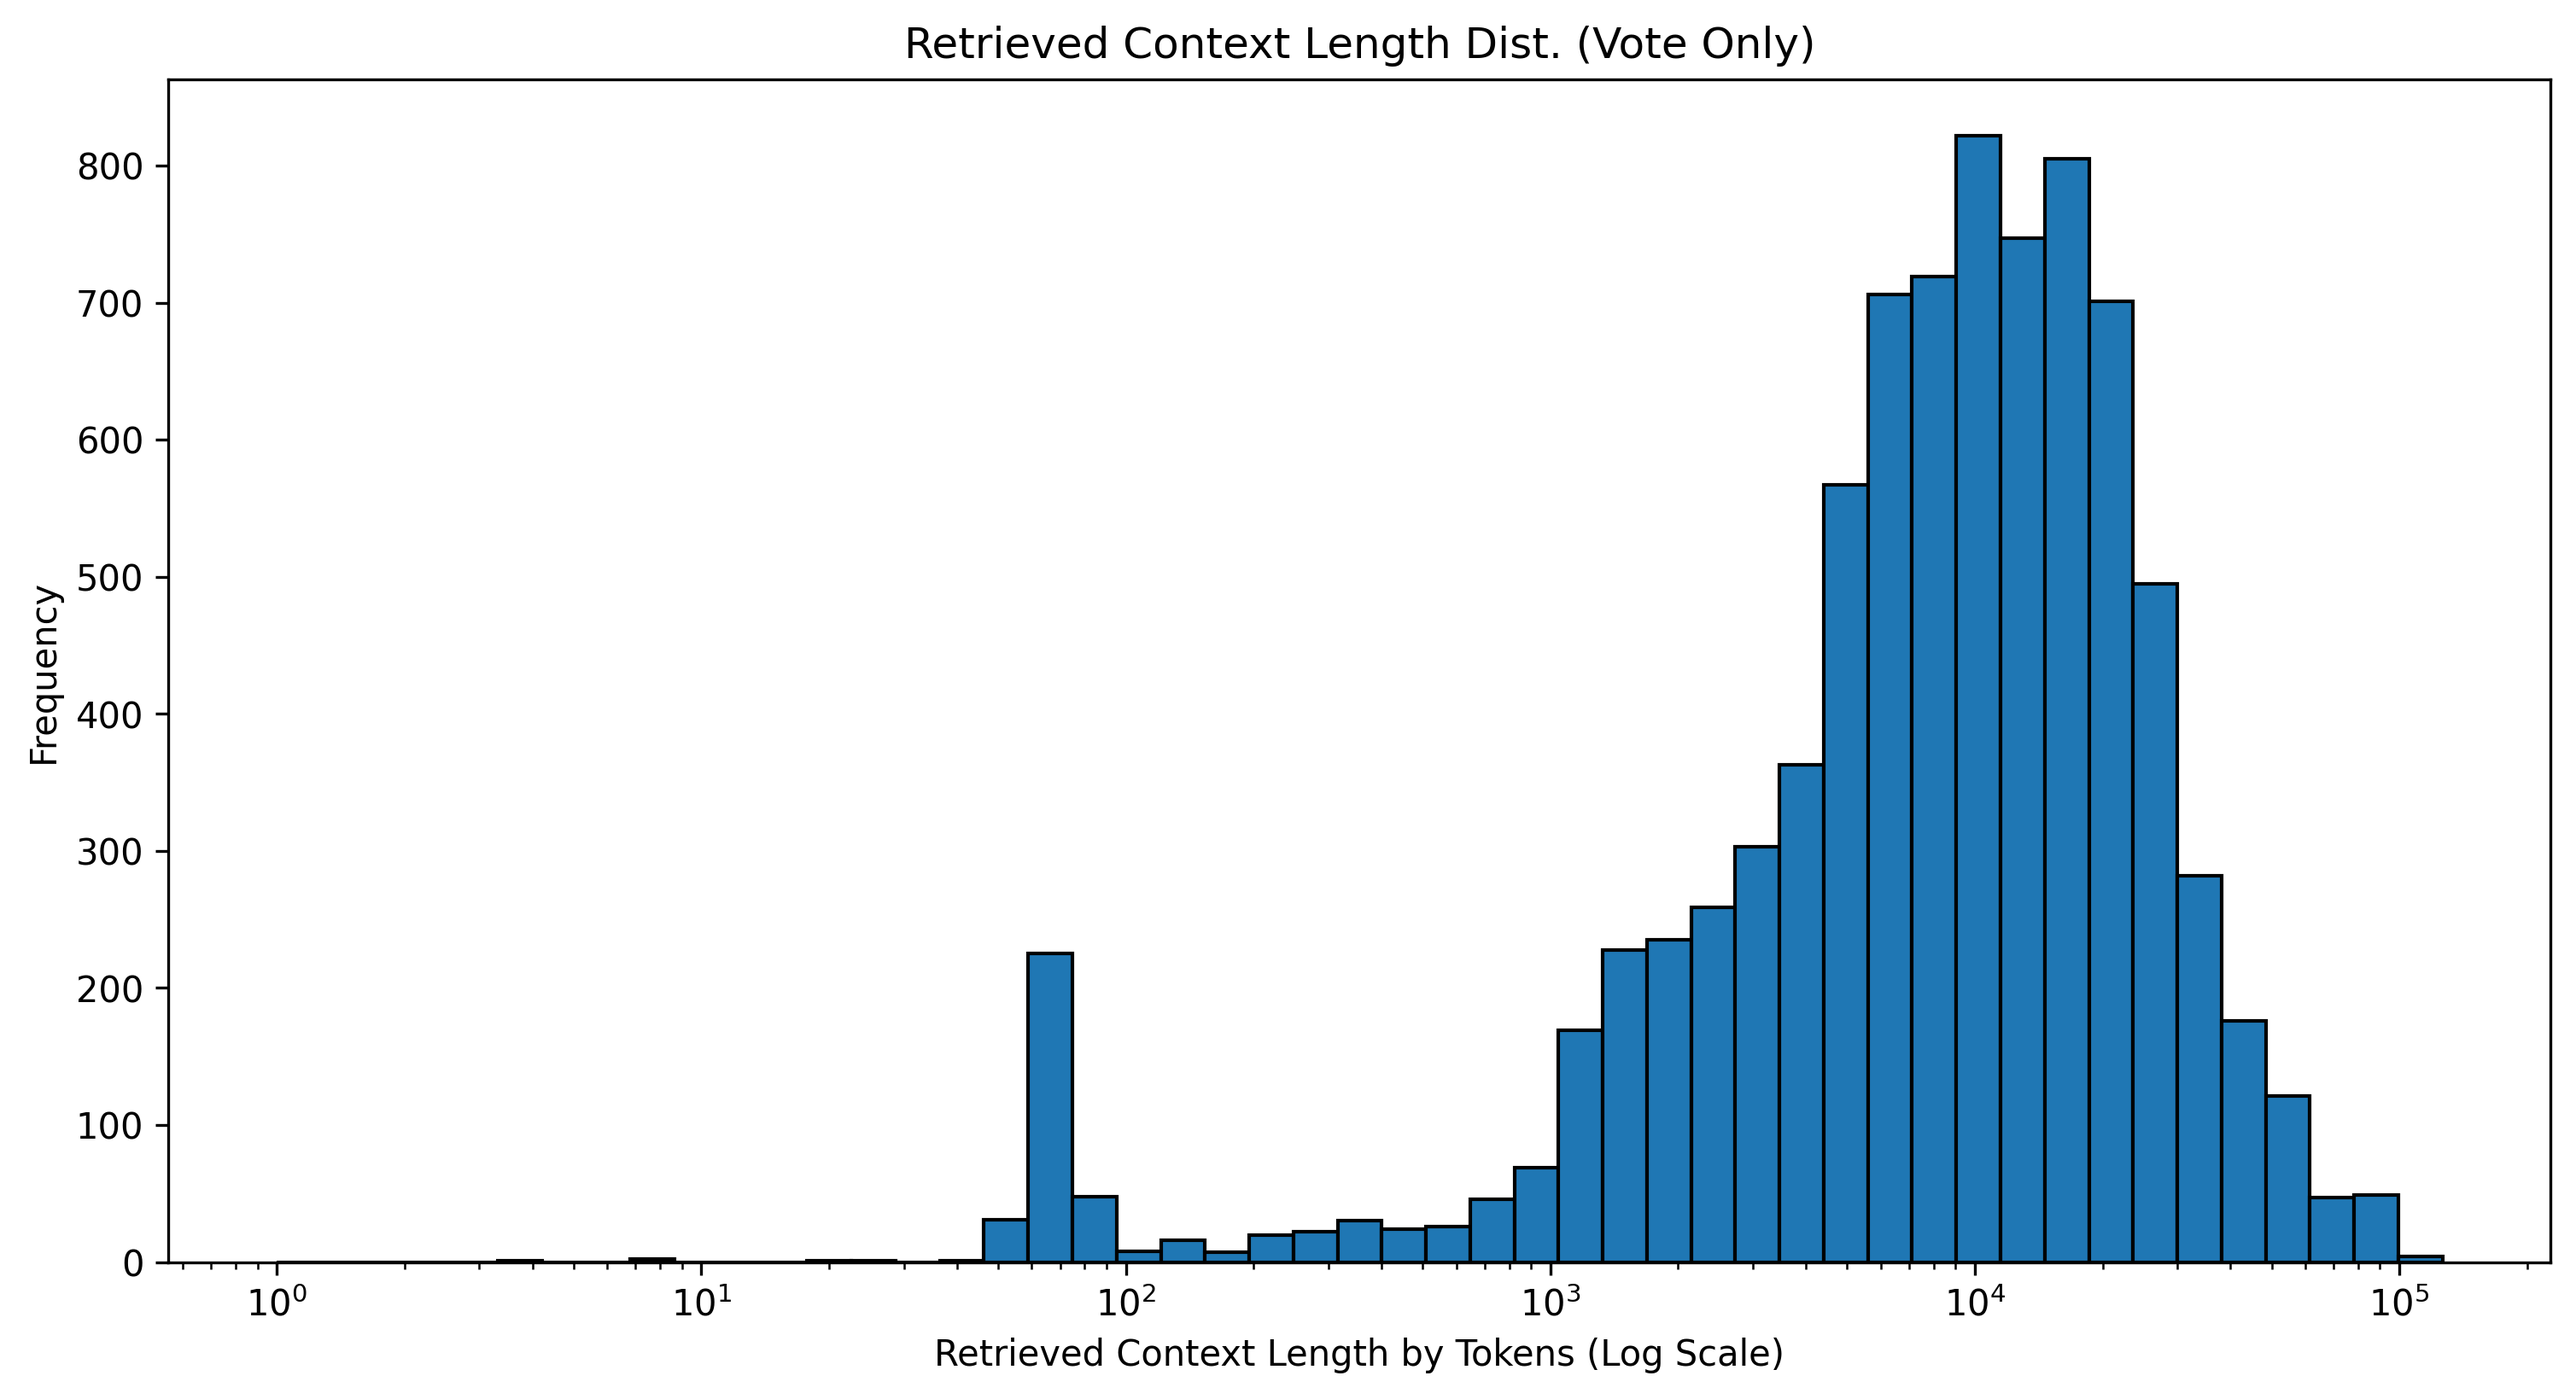
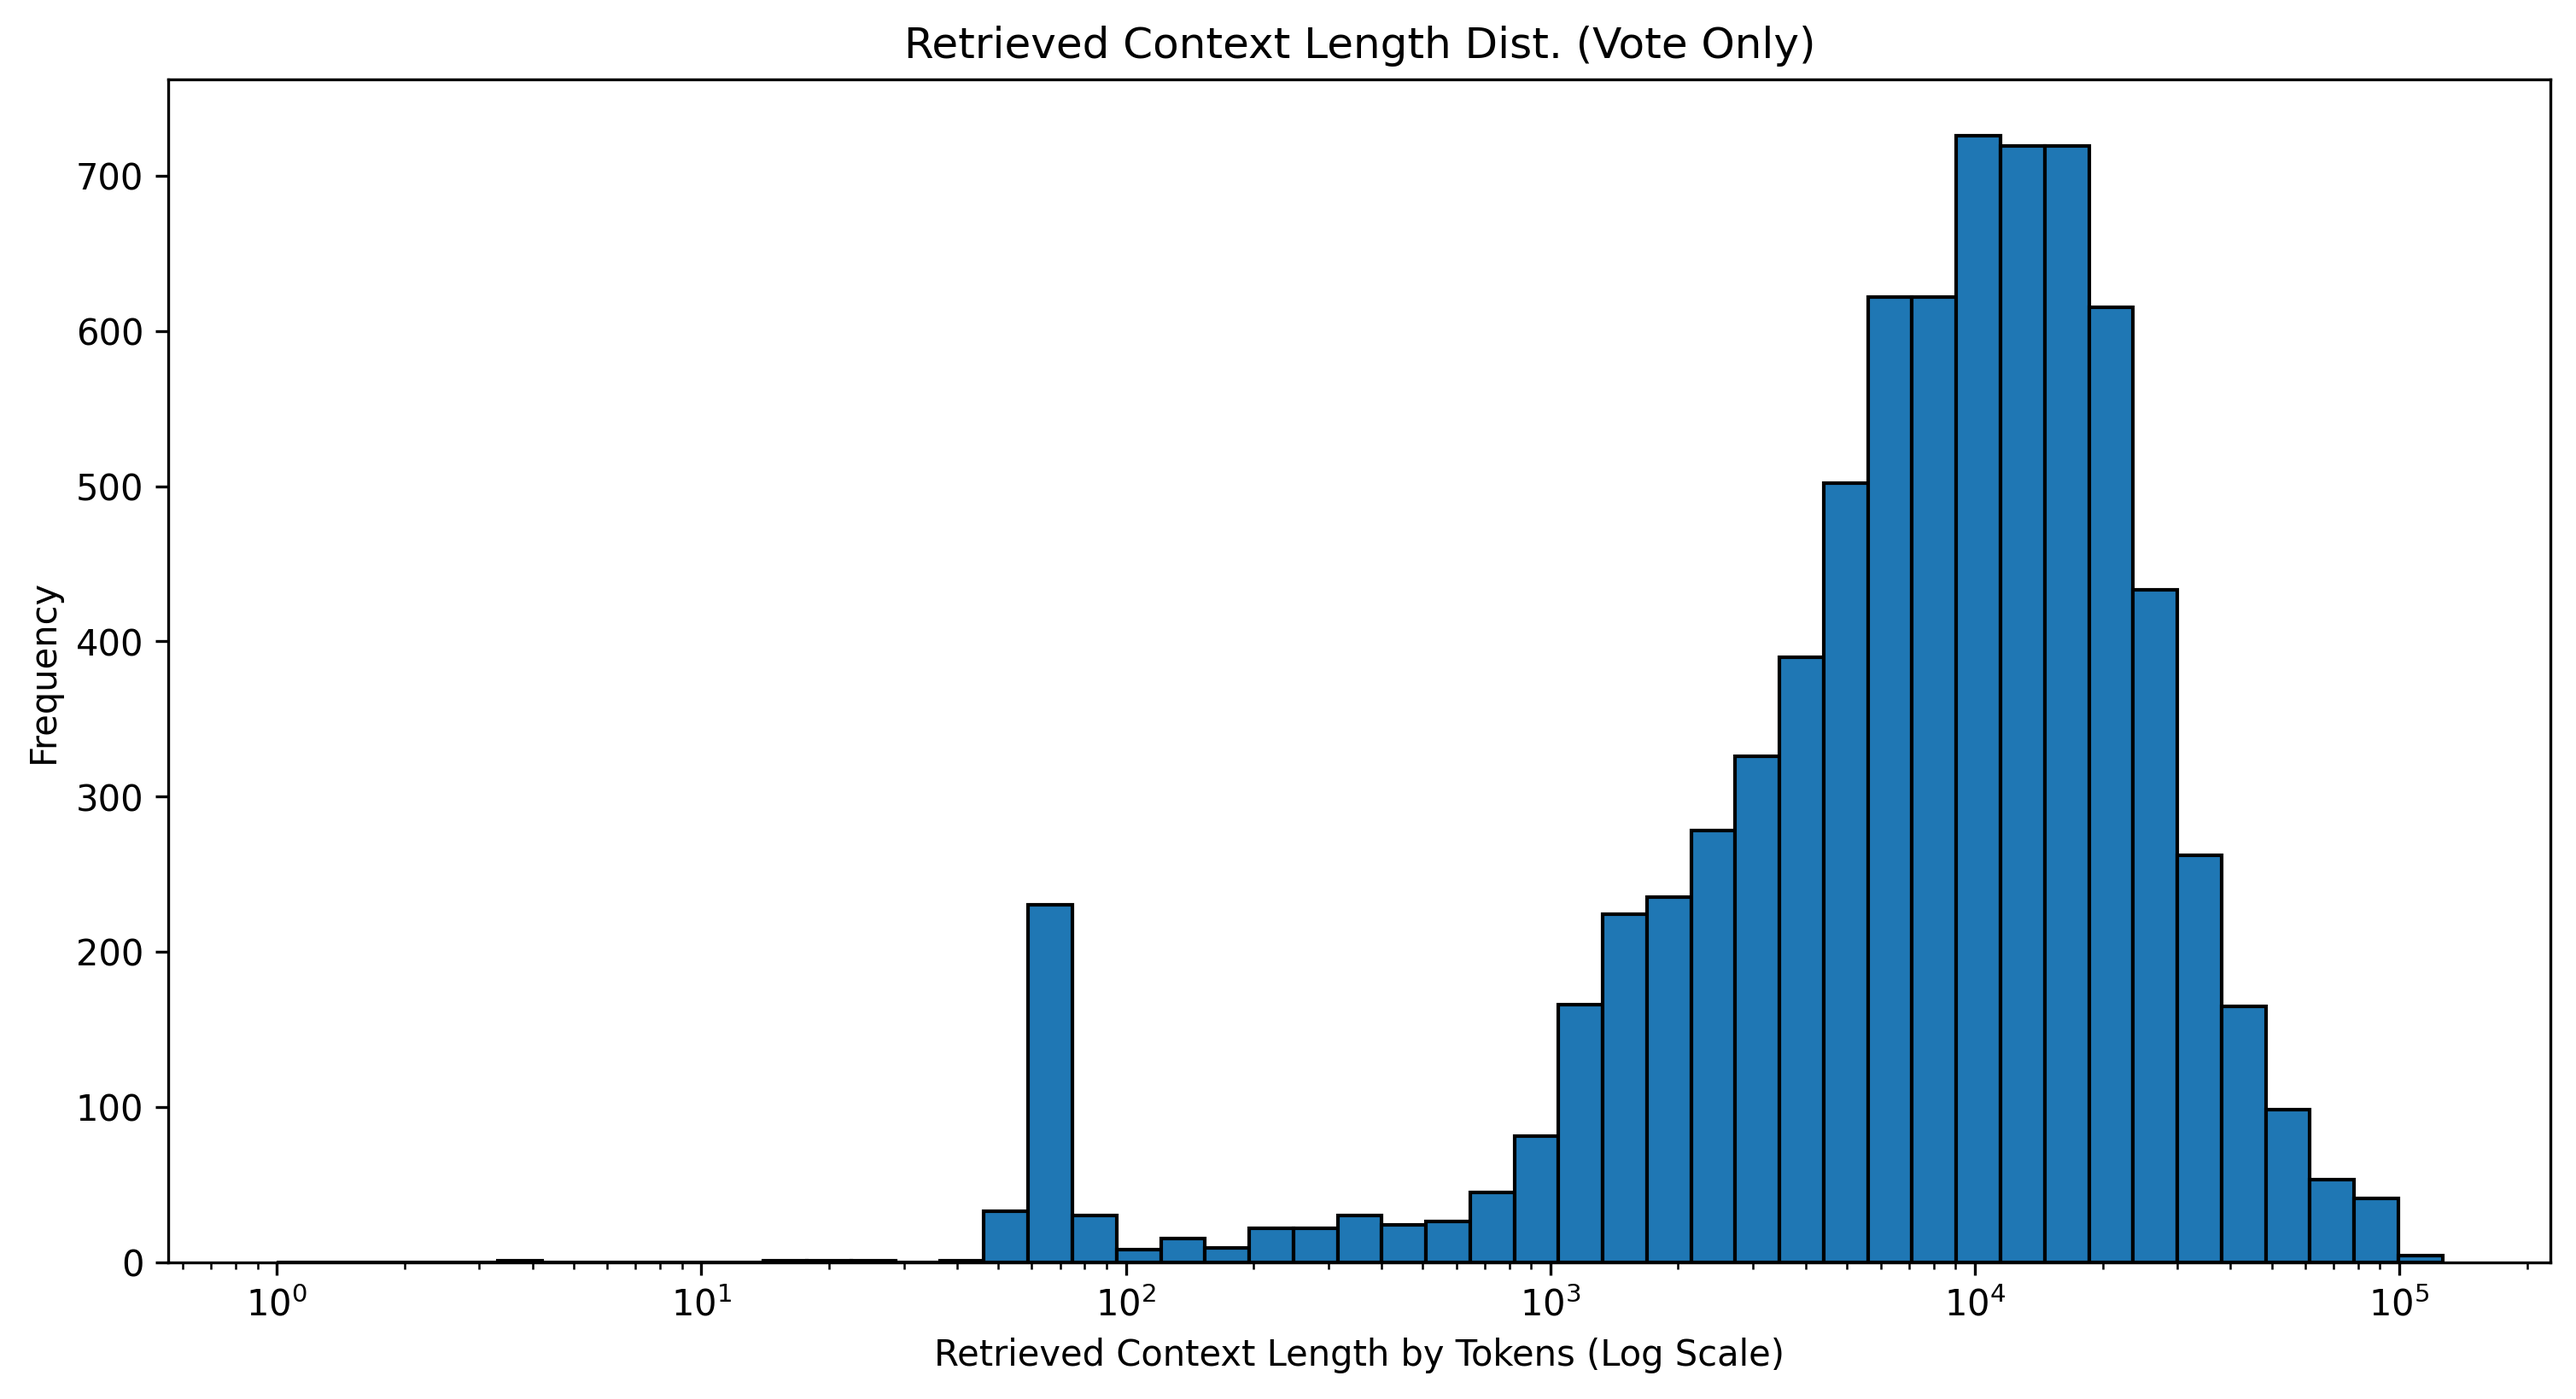
updated all graphs

diff --git a/_posts/2025-02-01-repochat-arena.md b/_posts/2025-02-01-repochat-arena.md
@@ -71,24 +71,24 @@ So far, RepoChat has collected around **20k battles** and over **4k votes**. All
   <tbody>
     <tr style="background-color: white;">
       <td style="padding: 8px; border: 1px solid lightgray;font-weight:500"># of conversations</td>
-      <td style="padding: 8px; border: 1px solid lightgray; text-align: right;font-weight: 500">11,447</td>
+      <td style="padding: 8px; border: 1px solid lightgray; text-align: right;font-weight: 500">12,732</td>
     </tr>
     <tr style="background-color: #f9f9f9;">
       <td style="padding: 8px; border: 1px solid lightgray;font-weight: 500"># of votes</td>
-      <td style="padding: 8px; border: 1px solid lightgray; text-align: right;font-weight: 500">4,308</td>
+      <td style="padding: 8px; border: 1px solid lightgray; text-align: right;font-weight: 500">4,857</td>
     </tr>
     <tr style="background-color: white;">
       <td style="padding: 8px; border: 1px solid lightgray;font-weight: 500"># of unique GitHub links (in convos)</td>
-      <td style="padding: 8px; border: 1px solid lightgray; text-align: right;font-weight: 500">4,513</td>
+      <td style="padding: 8px; border: 1px solid lightgray; text-align: right;font-weight: 500">5,037</td>
     </tr>
     <tr style="background-color: #f9f9f9;">
       <td style="padding: 8px; border: 1px solid lightgray;font-weight: 500"># of unique GitHub links (in votes)</td>
-      <td style="padding: 8px; border: 1px solid lightgray; text-align: right;font-weight: 500">2,179</td>
+      <td style="padding: 8px; border: 1px solid lightgray; text-align: right;font-weight: 500">2,465</td>
     </tr>
   </tbody>
 </table>
 </div>
-<p style="color:gray; text-align: center;">Table 1.  Number of conversations, votes, and unique GitHub links logged from 11/30/2024 - 02/03/2025.</p>
+<p style="color:gray; text-align: center;">Table 1.  Number of conversations, votes, and unique GitHub links logged from 11/30/2024 - 02/11/2025.</p>
 
 In this blog we will cover:
 - [**Initial Results**](#initial-leaderboards): our preliminary results for the RepoChat leaderboards
@@ -224,12 +224,12 @@ Since there are two separate components (retriever and answer), we produce two s
 <img src="/assets/img/blog/repochat_arena/PIC_natural_language.png" alt="Natural Language Breakdown" style="display:block; margin-top: auto; margin-left: auto; margin-right: auto; margin-bottom: auto; width: 90%">
 <p style="color:gray; text-align: center;">Figure 3. Breakdown of user query’s language by count.</p>
 
-**How long are the user queries?** The user query length varies significantly, ranging from a minimum of 1 token to a maximum of 1,406,325 tokens, with a median of 19 tokens. Short-length queries mostly consist of prose requesting implementations or instructions, whereas longer queries often include extensive code blocks. 
+**How long are the user queries?** The user query length varies significantly, ranging from a minimum of 1 token to a maximum of 1,406,325 tokens, with a median of 22 tokens. Short-length queries mostly consist of prose requesting implementations or instructions, whereas longer queries often include extensive code blocks. 
 
 <img src="/assets/img/blog/repochat_arena/PIC_query_len.png" alt="Query Length Distribution" style="display:block; margin-top: auto; margin-left: auto; margin-right: auto; margin-bottom: auto; width: 90%">
 <p style="color:gray; text-align: center;">Figure 4. Distribution of user query length.</p>
 
-**How long are the retrieved file contexts?** The distribution of retrieved file content is more stable, with a median of 9,189, an average of 12,859, and a maximum of 126,329 tokens, with the occasional empty retrieval. 
+**How long are the retrieved file contexts?** The distribution of retrieved file content is more stable, with a median of 8,870, an average of 12,508, and a maximum of 126,329 tokens, with the occasional empty retrieval. 
 
 <img src="/assets/img/blog/repochat_arena/PIC_context_len.png" alt="Retrieved Context Length Distribution" style="display:block; margin-top: auto; margin-left: auto; margin-right: auto; margin-bottom: auto; width: 90%">
 <p style="color:gray; text-align: center;">Figure 5. Distribution of retrieved file context length.</p>
